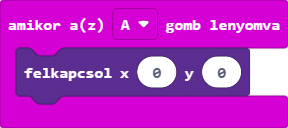
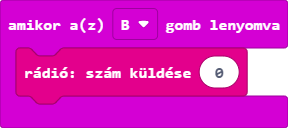
main.blocks, main.ts frissítése

Changed region(s): [[0.0312, 0.3438, 0.875, 0.8438], [0.4062, 0.1562, 0.4688, 0.25]]

diff --git a/main.ts b/main.ts
@@ -1,6 +1,9 @@
 input.onButtonPressed(Button.A, function () {
     led.plot(0, 0)
 })
+input.onButtonPressed(Button.B, function () {
+    radio.sendNumber(0)
+})
 basic.showLeds(`
     # . . . #
     # # . # #
